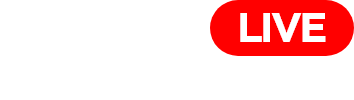
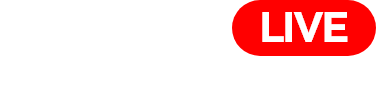
수정

diff --git a/html/main_test.html b/html/main_test.html
@@ -797,6 +797,7 @@
                 <!-- //슬기로운 격리생활 -->
 
                 <script>
+                    /*
                     var swiperHeight = new Swiper(".photoHeightArea .swiper", {
                         breakpoints: {
                             781: {
@@ -812,6 +813,35 @@
                             nextEl: ".swiper-button-next",
                             prevEl: ".swiper-button-prev",
                         },
+                    });
+                    */
+
+
+                    var ww = $(window).width();
+                    var swiperHeight = undefined;
+
+                    function initSwiper() {
+
+                        if (ww > 780 && swiperHeight == undefined) {
+                            swiperHeight = new Swiper(".photoHeightArea .swiper", {
+                                slidesPerView: 7.55,
+                                spaceBetween: 15,
+                                navigation: {
+                                    nextEl: ".swiper-button-next",
+                                    prevEl: ".swiper-button-prev",
+                                },
+                            });
+                        } else if (ww <= 780 && swiperHeight != undefined) {
+                            swiperHeight = undefined;
+                            swiperHeight.destroy();
+                        }
+                    }
+
+                    initSwiper();
+
+                    $(window).on('resize', function () {
+                        ww = $(window).width();
+                        initSwiper();
                     });
                 </script>
             </div>

diff --git a/css/style.css b/css/style.css
@@ -2154,7 +2154,7 @@ html .opening, body .opening {
 #wrap #header .headerIn .logoText {
   display: inline-block;
   vertical-align: top;
-  padding: 52px 0 0 70px;
+  padding-top: 52px;
 }
 #wrap #header .headerIn .logoText a {
   overflow: hidden;
@@ -2516,6 +2516,7 @@ html .opening, body .opening {
   line-height: 45px;
   margin-top: 30px;
   font-size: 31px;
+  color: #EA5504;
 }
 #wrap #container .topVisual .topVisualSwiper {
   height: 600px;
@@ -2977,7 +2978,7 @@ html .opening, body .opening {
   }
   #wrap #header .headerIn .gnb nav .navIn .gnbItem.search {
     display: block;
-    padding: 0 66px 20px 30px;
+    padding: 0 30px 20px 30px;
     margin-left: 0;
   }
   #wrap #header .headerIn .gnb nav .navIn .gnbItem.search > button {
@@ -3027,12 +3028,13 @@ html .opening, body .opening {
     display: none;
   }
   #wrap #header .headerIn .gnb nav .navIn .gnbItem.search .gnbItemSub .gnbItemSubIn .searchInputArea .searchInput {
-    overflow: hidden;
-    display: inline-block;
-    vertical-align: top;
+    overflow: visible;
+    display: flex;
+    vertical-align: baseline;
   }
   #wrap #header .headerIn .gnb nav .navIn .gnbItem.search .gnbItemSub .gnbItemSubIn .searchInputArea .searchInput input {
-    width: 170px;
+    flex: 1;
+    width: auto;
     height: 30px;
     padding: 0 5px;
     border-bottom: 2px solid #fff;
@@ -6335,7 +6337,7 @@ h2.title-margin {
   }
   #wrap #container .liveDetail .liveWrap .titleLive img.mobile {
     display: inline-block;
-    width: 177px;
+    width: 188px;
   }
   #wrap #container .liveDetail .liveWrap .liveArea {
     width: 100%;

diff --git a/scss/_common.scss b/scss/_common.scss
@@ -114,7 +114,7 @@ html, body {
       .logoText {
         display: inline-block;
         vertical-align: top;
-        padding: 52px 0 0 70px;
+        padding-top: 52px;
 
         a {
           overflow: hidden;
@@ -527,6 +527,7 @@ html, body {
                       line-height: 45px;
                       margin-top: 30px;
                       font-size: 31px;
+                      color: $colorOrange;
                     }
                   }
                 }
@@ -1082,7 +1083,7 @@ html, body {
 
                   &.search {
                     display     : block;
-                    padding     : 0 66px 20px 30px;
+                    padding     : 0 30px 20px 30px;
                     margin-left : 0;
 
                     > button {
@@ -1135,12 +1136,13 @@ html, body {
                           }
 
                           .searchInput {
-                            overflow       : hidden;
-                            display        : inline-block;
-                            vertical-align : top;
+                            overflow       : visible;
+                            display        : flex;
+                            vertical-align : baseline;
 
                             input {
-                              width         : 170px;
+                              flex: 1;
+                              width         : auto;
                               height        : 30px;
                               padding       : 0 5px;
                               border-bottom : 2px solid #fff;

diff --git a/scss/_sub.scss b/scss/_sub.scss
@@ -2887,7 +2887,7 @@ h2.title {
         }
         img.mobile {
           display: inline-block;
-          width: 177px;
+          width: 188px;
         }
       }
 
